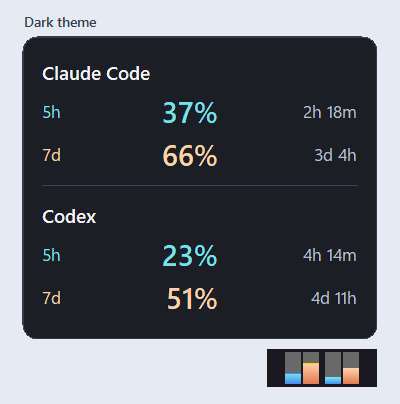
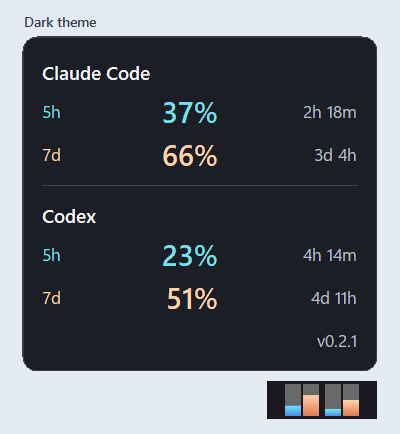
Show the running toolbar version on hover

diff --git a/src/AgentMeterBand.cs b/src/AgentMeterBand.cs
@@ -5,6 +5,7 @@ using System.Diagnostics;
 using System.Globalization;
 using System.IO;
 using System.Collections.Generic;
+using System.Reflection;
 using System.Runtime.InteropServices;
 using System.Web.Script.Serialization;
 using System.Windows.Forms;
@@ -528,6 +529,7 @@ internal sealed class QuotaPopup : Form {
  private const TextFormatFlags LineFlags = TextFormatFlags.NoPadding | TextFormatFlags.NoPrefix |
   TextFormatFlags.SingleLine | TextFormatFlags.VerticalCenter;
  private const TextFormatFlags NoteFlags = TextFormatFlags.NoPadding | TextFormatFlags.NoPrefix | TextFormatFlags.WordBreak;
+ private static readonly string VersionLabel = GetVersionLabel();
 
  internal enum RowKind { Heading, FiveHour, Weekly, Notice }
 
@@ -558,6 +560,12 @@ internal sealed class QuotaPopup : Form {
   StartPosition = FormStartPosition.Manual;
   AutoScaleMode = AutoScaleMode.None;
   SetStyle(ControlStyles.OptimizedDoubleBuffer | ControlStyles.ResizeRedraw, true);
+ }
+
+ private static string GetVersionLabel() {
+  var version = (AssemblyInformationalVersionAttribute)Attribute.GetCustomAttribute(
+   typeof(QuotaPopup).Assembly, typeof(AssemblyInformationalVersionAttribute));
+  return version == null ? "Development build" : "v" + version.InformationalVersion;
  }
 
  protected override bool ShowWithoutActivation { get { return true; } }
@@ -614,7 +622,8 @@ internal sealed class QuotaPopup : Form {
    roundedWindowRadius = cornerRadius;
   }
   AccessibleDescription = String.Join(Environment.NewLine, rows.ConvertAll(row =>
-   String.Join(" ", new[] { row.Label, row.Percent, row.Remaining, row.Note }).Trim()).ToArray());
+   String.Join(" ", new[] { row.Label, row.Percent, row.Remaining, row.Note }).Trim()).ToArray()) +
+   Environment.NewLine + "AgentMeter Taskbar " + VersionLabel;
   Invalidate();
  }
 
@@ -653,7 +662,8 @@ internal sealed class QuotaPopup : Form {
     headingWidth = Math.Max(headingWidth, MeasureLine(row.Label, headingFont));
    }
   }
-  return Math.Max(headingWidth, periodColumnWidth + percentColumnWidth + countdownColumnWidth + 2 * minimumColumnGap);
+  int quotaRowWidth = periodColumnWidth + percentColumnWidth + countdownColumnWidth + 2 * minimumColumnGap;
+  return Math.Max(Math.Max(headingWidth, quotaRowWidth), MeasureLine(VersionLabel, detailFont));
  }
 
  // Use the same layout for measurement and painting so DPI and wrapped notices agree.
@@ -691,7 +701,10 @@ internal sealed class QuotaPopup : Form {
     y += DrawNotice(graphics, row.Label, detailColor, y, contentWidth);
    }
   }
-  return y;
+  y += Scale(8);
+  DrawLine(graphics, VersionLabel, detailFont, detailColor, padding, y, contentWidth, detailFont.Height,
+   LineFlags | TextFormatFlags.Right);
+  return y + detailFont.Height;
  }
 
  private int DrawNotice(Graphics graphics, string value, Color color, int y, int width) {

diff --git a/docs/README.ru.md b/docs/README.ru.md
@@ -1,6 +1,6 @@
 # AgentMeter Taskbar
 
-Панель задач Windows с лимитами Claude Code и Codex. У каждого сервиса видны две полосы для пятичасового и недельного периода. При наведении появляются проценты и время до сброса.
+Панель задач Windows с лимитами Claude Code и Codex. У каждого сервиса видны две полосы для пятичасового и недельного периода. При наведении появляются проценты, время до сброса и версия панели.
 
 [English documentation](../README.md)
 

diff --git a/README.md b/README.md
@@ -1,6 +1,6 @@
 # AgentMeter Taskbar
 
-Windows taskbar toolbar for Claude Code and Codex usage limits. It shows the five-hour and weekly windows for each service and reveals usage and reset times on hover.
+Windows taskbar toolbar for Claude Code and Codex usage limits. It shows the five-hour and weekly windows for each service and reveals usage, reset times, and the running toolbar version on hover.
 
 [Документация на русском](docs/README.ru.md)
 
